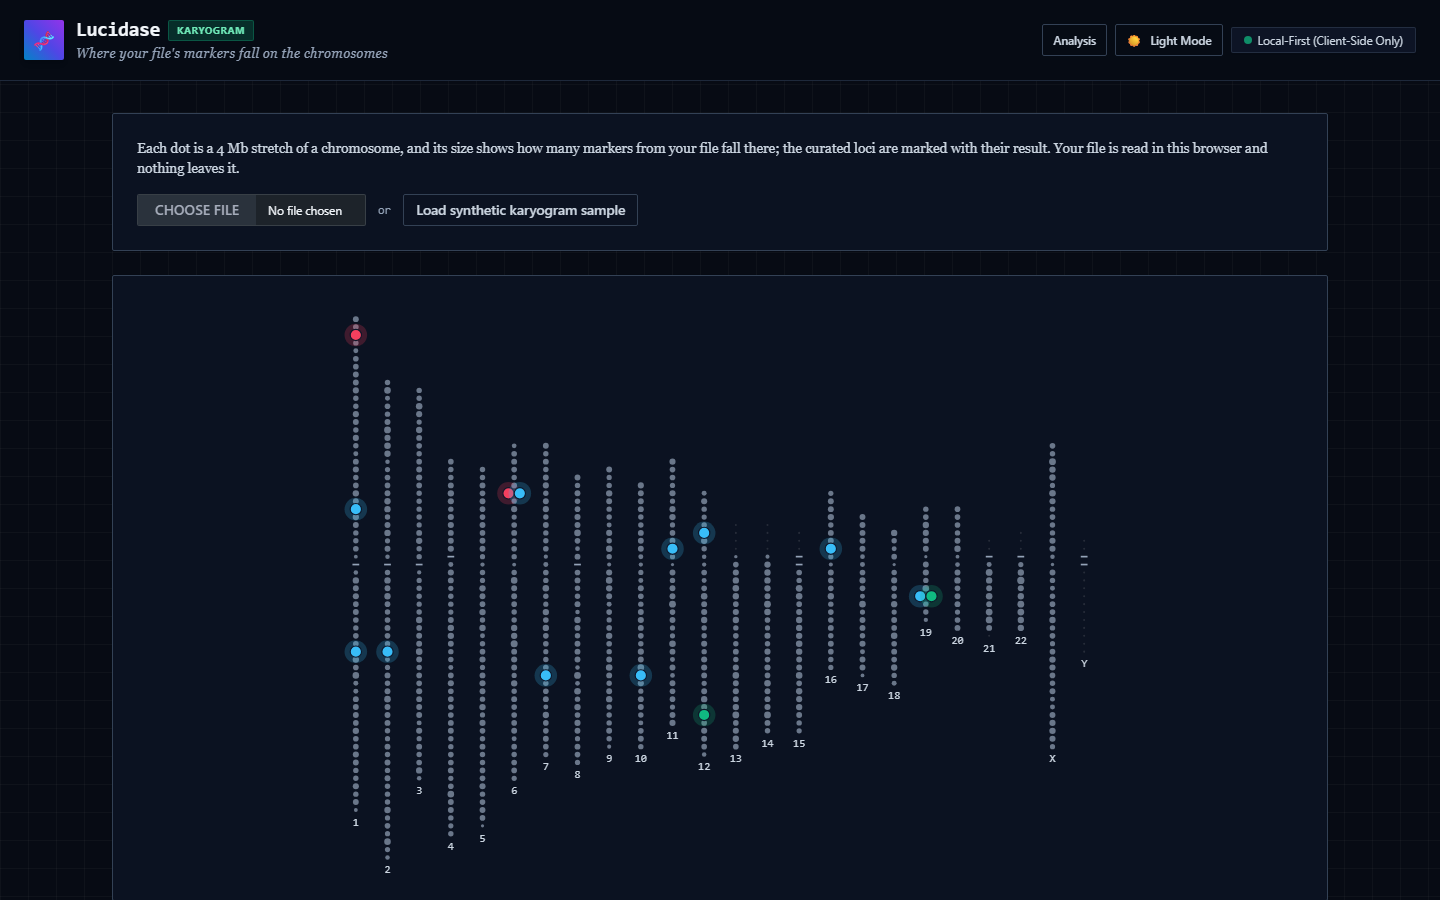
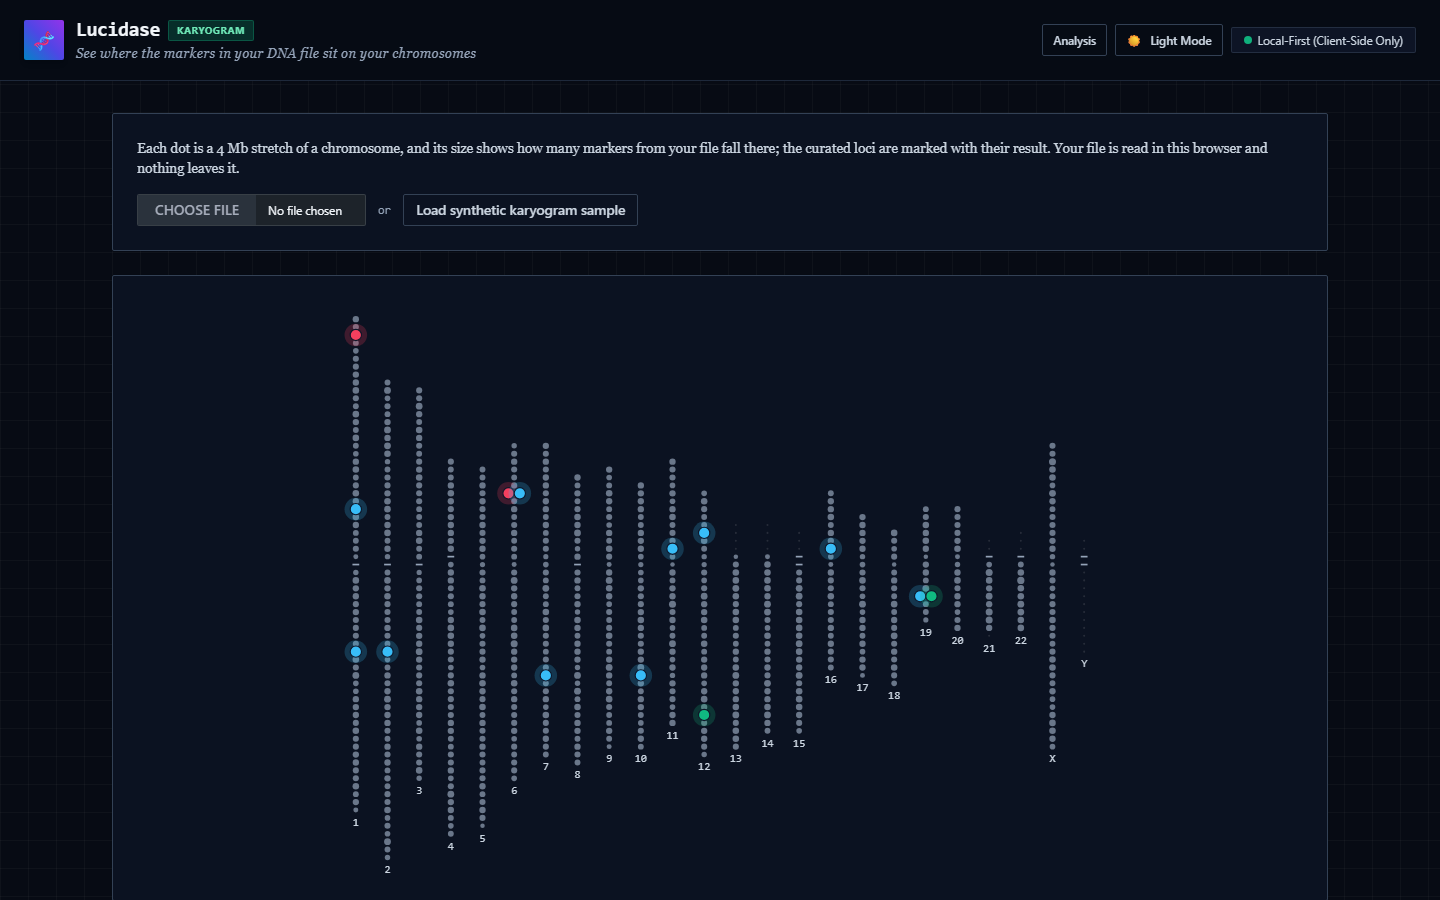
fix(karyogram): plain-language genome-version copy, visible 1-marker dots
The karyogram page is read by people with a consumer DNA file, but its
unknown-build case spoke in pipeline terms: "Geometry: GRCh38 (the
file's build is unknown)", "Density unavailable", "Reference position
(no sample)". The page now says "genome version" and explains the
fallback: the chromosome shapes come from the GRCh38 reference because
the file does not say which version it was made with. The provenance
line has three exclusive cases (no file, matching file, unknown
version), and the SVG title and desc never name a build the file did
not declare.

Dot sizes: a bin with one marker drew at r 1.06 next to an empty bin's
0.9, so single markers were nearly invisible on a dense sample. A bin
with markers now draws at r = 1.6 + 1.6 * sqrt(count / busiest); empty
bins stay at 0.9 and the busiest bin stays at 3.2, so the layout does
not move.

Tests: web/tests/karyogram-view.test.mjs pins the one-marker radius
(busiest bin 300) and the unknown-version title and desc;
tests/e2e/test_karyogram.py pins the unknown-version provenance and
notice. README quotes, docs/design-handoff.md and the two karyogram
screenshots are updated.

Changed region(s): [[0.0625, 0.0311, 0.3125, 0.0622]]

diff --git a/web/karyogram.html b/web/karyogram.html
@@ -33,7 +33,7 @@
             Karyogram
           </span>
         </div>
-        <p class="text-[13px] text-slate-500 dark:text-slate-400 font-serif italic tracking-wide">Where your file's markers fall on the chromosomes</p>
+        <p class="text-[13px] text-slate-500 dark:text-slate-400 font-serif italic tracking-wide">See where the markers in your DNA file sit on your chromosomes</p>
       </div>
     </div>
 
@@ -110,12 +110,12 @@
           <dt class="text-slate-500 dark:text-slate-400">Mitochondrial (MT)</dt><dd data-total="mt" class="font-bold text-right"></dd>
           <dt class="text-slate-500 dark:text-slate-400">Unplaced, by name</dt><dd data-total="unplaced" class="font-bold text-right"></dd>
           <dt class="text-slate-500 dark:text-slate-400">Out of bounds</dt><dd data-total="outOfBounds" class="font-bold text-right"></dd>
-          <dt class="text-slate-500 dark:text-slate-400">Not placed (build unknown)</dt><dd data-total="notPlacedBuildUnknown" class="font-bold text-right"></dd>
+          <dt class="text-slate-500 dark:text-slate-400">Not placed (genome version unknown)</dt><dd data-total="notPlacedBuildUnknown" class="font-bold text-right"></dd>
           <dt class="text-slate-500 dark:text-slate-400">Density</dt><dd data-total="density" class="font-bold text-right"></dd>
         </dl>
         <p id="karyogram-density-notice" class="hidden p-3 rounded-sm bg-amber-50/90 dark:bg-amber-950/40 border-l-4 border-amber-500 border border-amber-200 dark:border-amber-900/60 text-xs text-slate-800 dark:text-slate-200">
-          Density unavailable: the file's genome build is unknown, so no marker is placed by position. The curated loci
-          still carry their results.
+          Your file doesn't say which genome version it uses, so its markers can't be placed on the chromosomes. The
+          highlighted genes still show your results.
         </p>
       </section>
     </div>

diff --git a/web/src/karyogram-view.js b/web/src/karyogram-view.js
@@ -15,7 +15,8 @@ const BOTTOM_PAD = 10;
 const CEN_TICK = 6;
 const LOCUS_STEP = 10;
 const R_MIN = 0.9;
-const R_SPAN = 2.3;
+const R_MARKED_MIN = 1.6; // a bin with even one marker must read as larger than an empty bin
+const R_MARKED_SPAN = 1.6; // R_MARKED_MIN + R_MARKED_SPAN = 3.2, the busiest bin
 
 const f = (n) => n.toFixed(1);
 const esc = escapeHtml;
@@ -59,7 +60,7 @@ export function renderKaryogramSvg(layout, { stateLabels = {} } = {}) {
         continue;
       }
       if (count > 0) {
-        const r = R_MIN + R_SPAN * Math.sqrt(count / maxCount);
+        const r = R_MARKED_MIN + R_MARKED_SPAN * Math.sqrt(count / maxCount);
         g.push(`<circle class="kary-bin" cx="${f(c.x)}" cy="${f(y)}" r="${f(r)}"/>`);
       } else {
         g.push(`<circle class="kary-bin kary-bin-empty" cx="${f(c.x)}" cy="${f(y)}" r="${f(R_MIN)}"/>`);
@@ -108,9 +109,10 @@ export function renderKaryogramSvg(layout, { stateLabels = {} } = {}) {
   const stateText = [...stateCounts].map(([s, n]) => `${labelOf(s)}: ${n}`).join("; ");
   // Unknown file build: the GRCh38 geometry is only a fallback reference, so never present it as the file's build.
   const fallback = sample && sample.density !== "available";
-  const title = fallback ? `Karyogram (${geometry.build} reference; file build unknown)` : `Karyogram (${geometry.build})`;
+  const fallbackLead = `Karyogram: your file's genome version is unknown, so the chromosomes are drawn from the ${geometry.build} reference`;
+  const title = fallback ? fallbackLead : `Karyogram (${geometry.build})`;
   const desc = fallback
-    ? `${geometry.build} reference; file build unknown. ${markerText}. Loci per state: ${stateText}.`
+    ? `${fallbackLead}. ${markerText}. Loci per state: ${stateText}.`
     : `${markerText}. Loci per state: ${stateText}.`;
 
   return (

diff --git a/web/src/karyogram-page.js b/web/src/karyogram-page.js
@@ -114,9 +114,14 @@ function renderProvenance(layout) {
   const { build } = layout.geometry;
   const assembly = view.kb.assemblies[build];
   const tables = assembly.sources.map((s) => `${s.table} retrieved ${s.retrieved}`).join("; ");
-  const assumed = layout.sample && layout.sample.density === "unavailable" ? " (the file's build is unknown)" : "";
+  const unknown = layout.sample && layout.sample.density === "unavailable";
+  const shapes = !layout.sample
+    ? `Chromosome shapes: ${build}.`
+    : unknown
+      ? `Chromosome shapes: ${build} reference, used because your file doesn't say which genome version it was made with.`
+      : `Chromosome shapes: ${build}, matching your file.`;
   $("karyogram-provenance").textContent =
-    `Geometry: ${build}${assumed}, UCSC ${assembly.ucsc} tables ${tables}. ` +
+    `${shapes} Source: UCSC ${assembly.ucsc} tables ${tables}. ` +
     `Knowledge base release ${view.kb.manifest.release}.`;
 }
 

diff --git a/web/src/view-model.js b/web/src/view-model.js
@@ -33,7 +33,7 @@ const STATE_TEXT = {
 };
 
 /** The reference-only marker state on the karyogram: the locus has a position but no sample is loaded. */
-const REFERENCE_STATE_LABEL = "Reference position (no sample)";
+const REFERENCE_STATE_LABEL = "Location only (no file loaded)";
 
 /**
  * Human label per karyogram marker state: the four per-locus coverage states reuse the analysis labels above, plus

diff --git a/tests/e2e/test_karyogram.py b/tests/e2e/test_karyogram.py
@@ -119,8 +119,8 @@ def test_unknown_build_shows_the_density_notice_and_keeps_locus_states(page):
     )
     _wait_result(page)
     expect(page.locator("#karyogram-density-notice")).to_be_visible()
-    expect(page.locator("#karyogram-density-notice")).to_contain_text("genome build is unknown")
-    expect(page.locator("#karyogram-provenance")).to_contain_text("build is unknown")
+    expect(page.locator("#karyogram-density-notice")).to_contain_text("doesn't say which genome version")
+    expect(page.locator("#karyogram-provenance")).to_contain_text("doesn't say which genome version it was made with")
     assert _total(page, "density") == "Unavailable"
     assert _total(page, "placed") == "0"
     assert _total(page, "notPlacedBuildUnknown") == "5"

diff --git a/docs/design-handoff.md b/docs/design-handoff.md
@@ -367,9 +367,9 @@ Factual audit from code; "to verify" = cannot be proven without rendering.
 `web/karyogram.html` is a second page (header link "Analysis" back to `index.html`; `index.html` links to it), built from the same classes and theme variables as the analysis page. It is the owner-requested exception to the "no visual design yet" rule, kept minimal. The main element carries `data-karyogram-state`; the states the design system must provide are:
 
 1. **Reference-only** (`reference-only`): on load, before any file. 24 chromosome columns of faint dots with the 14 curated loci in the neutral "reference" style; the legend counts all loci as reference; no totals panel.
-2. **Loading** (`loading`): the progress bar and status line, the same pattern as the analysis page. The file input and the demo button are disabled from the moment `processText` starts (karyogram-page.js:213), not during the FileReader read or the sample fetch before it.
-3. **Result** (`result`): density dots sized by marker count, loci coloured by coverage state (observed sky, tested not detected emerald, array gap amber, insufficient evidence rose, reference neutral slate), the legend with counts, the totals panel (rows, placed, MT, unplaced by name, out of bounds, not placed because the build is unknown, density) and the loci table.
-4. **Density unavailable** (a notice inside the result): the file's genome build is unknown, so no marker is placed by position; every dot is faint and the loci keep their states.
+2. **Loading** (`loading`): the progress bar and status line, the same pattern as the analysis page. The file input and the demo button are disabled from the moment `processText` starts (karyogram-page.js:218), not during the FileReader read or the sample fetch before it.
+3. **Result** (`result`): density dots sized by marker count (an empty bin r 0.9; a bin with markers r 1.6 to 3.2, so one marker is visibly larger), loci coloured by coverage state (observed sky, tested not detected emerald, array gap amber, insufficient evidence rose, reference neutral slate), the legend with counts, the totals panel (rows, placed, MT, unplaced by name, out of bounds, not placed because the genome version is unknown, density) and the loci table.
+4. **Density unavailable** (a notice inside the result): the file doesn't say which genome version it uses, so no marker is placed on the chromosomes; every dot is faint and the highlighted genes keep their states. The totals row reads "Not placed (genome version unknown)" and the figure's title says the chromosomes are drawn from the GRCh38 reference.
 5. **Error** (`error`): `#karyogram-error`, the same alert pattern as the analysis error; the figure falls back to the reference-only drawing and the totals panel is hidden.
 
 The marker colours live in `src/styles.css` (`.kary-*`) as references to the existing theme variables. The figure scales with its container (760 px at most).

diff --git a/web/README.md b/web/README.md
@@ -113,7 +113,7 @@ python -m http.server 8000
 
 ## Karyogram page
 
-`karyogram.html` (linked from the header of `index.html`, and back) draws the file's markers on the 24 chromosome columns of the build the file declares (GRCh37 or GRCh38). It reuses the analysis worker through the `"karyogram"` action, which parses, classifies and lays out with `src/core/karyogram.js`; `src/karyogram-view.js` renders the SVG and `src/karyogram-page.js` owns the DOM. Dots are 4 Mb bins; the busiest bin sets the largest dot. The 14 curated loci carry the coverage state the analysis assigns. When the build is unknown, nothing is placed by position, density is reported as unavailable and the loci still carry their states. Rows that cannot be placed (MT, unplaced names, out-of-range positions) are counted in the totals panel, never dropped. The page makes same-origin requests only. Its geometry comes from the KB `assemblies` section, built by `tools/build_canonical_kb.py` from the pinned UCSC tables. Both pages share the theme logic in `src/theme.js`. `demo-data/sample-karyogram-23andme.txt` is a deterministic synthetic file made by `tools/make_synthetic_karyogram_sample.py`.
+`karyogram.html` (linked from the header of `index.html`, and back) draws the file's markers on the 24 chromosome columns of the build the file declares (GRCh37 or GRCh38). It reuses the analysis worker through the `"karyogram"` action, which parses, classifies and lays out with `src/core/karyogram.js`; `src/karyogram-view.js` renders the SVG and `src/karyogram-page.js` owns the DOM. Dots are 4 Mb bins; an empty bin is a faint r 0.9 dot, a bin with markers is r 1.6 to 3.2 by the square root of its count, and the busiest bin sets the largest dot. The 14 curated loci carry the coverage state the analysis assigns. When the build is unknown, nothing is placed by position, density is reported as unavailable and the loci still carry their states. Rows that cannot be placed (MT, unplaced names, out-of-range positions) are counted in the totals panel, never dropped. The page makes same-origin requests only. Its geometry comes from the KB `assemblies` section, built by `tools/build_canonical_kb.py` from the pinned UCSC tables. Both pages share the theme logic in `src/theme.js`. `demo-data/sample-karyogram-23andme.txt` is a deterministic synthetic file made by `tools/make_synthetic_karyogram_sample.py`.
 
 ---
 

diff --git a/README.md b/README.md
@@ -16,7 +16,7 @@ Lucidase reads a raw genotype file in your browser and interprets the 14 curated
   <img src="docs/assets/lucidase-karyogram-light.png" alt="The Lucidase karyogram of the bundled synthetic sample: 24 chromosome columns of marker-density dots with the 14 curated loci marked by result">
 </picture>
 
-`web/karyogram.html` maps a genotype file onto the chromosomes. Each dot is a 4 Mb stretch, sized by how many markers from your file fall there, and the 14 curated loci are marked with their coverage state. A file whose genome build is unknown is not placed by position: the page says so and still shows the loci's results. The map is drawn in the browser from UCSC chromosome lengths and centromeres stored in the knowledge base, and your file never leaves the page.
+`web/karyogram.html` maps a genotype file onto the chromosomes. Each dot is a 4 Mb stretch, sized by how many markers from your file fall there, and the 14 curated loci are marked with their coverage state. A file that doesn't say which genome version it uses is not placed on the chromosomes: the page says so and still shows the highlighted genes' results. The map is drawn in the browser from UCSC chromosome lengths and centromeres stored in the knowledge base, and your file never leaves the page.
 
 ## What it does
 
